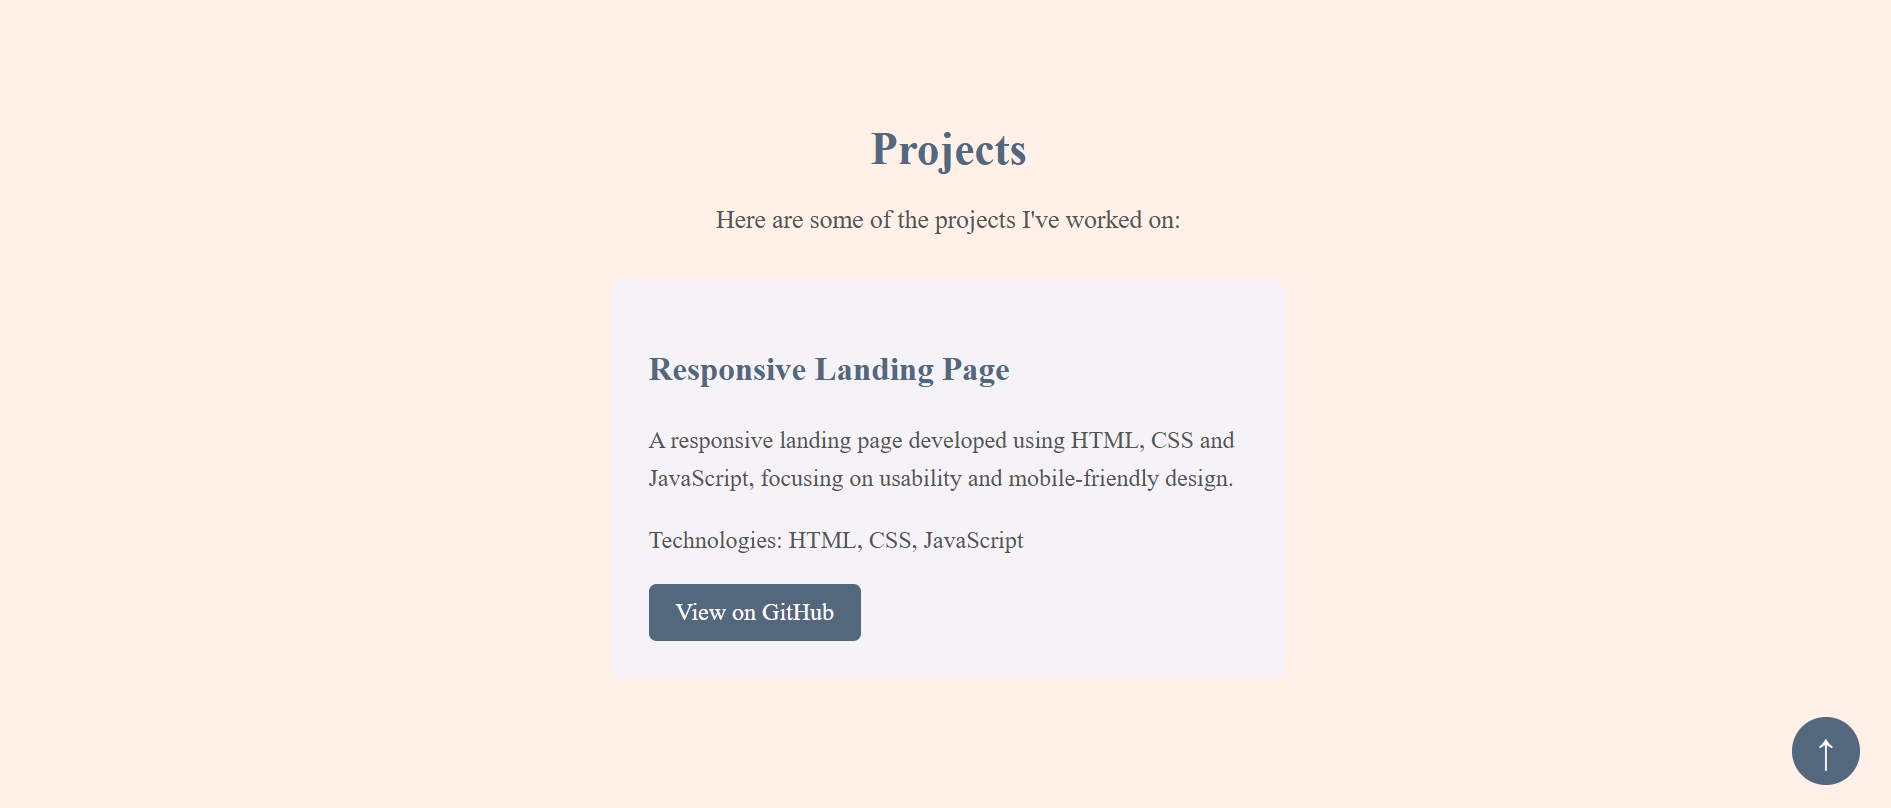
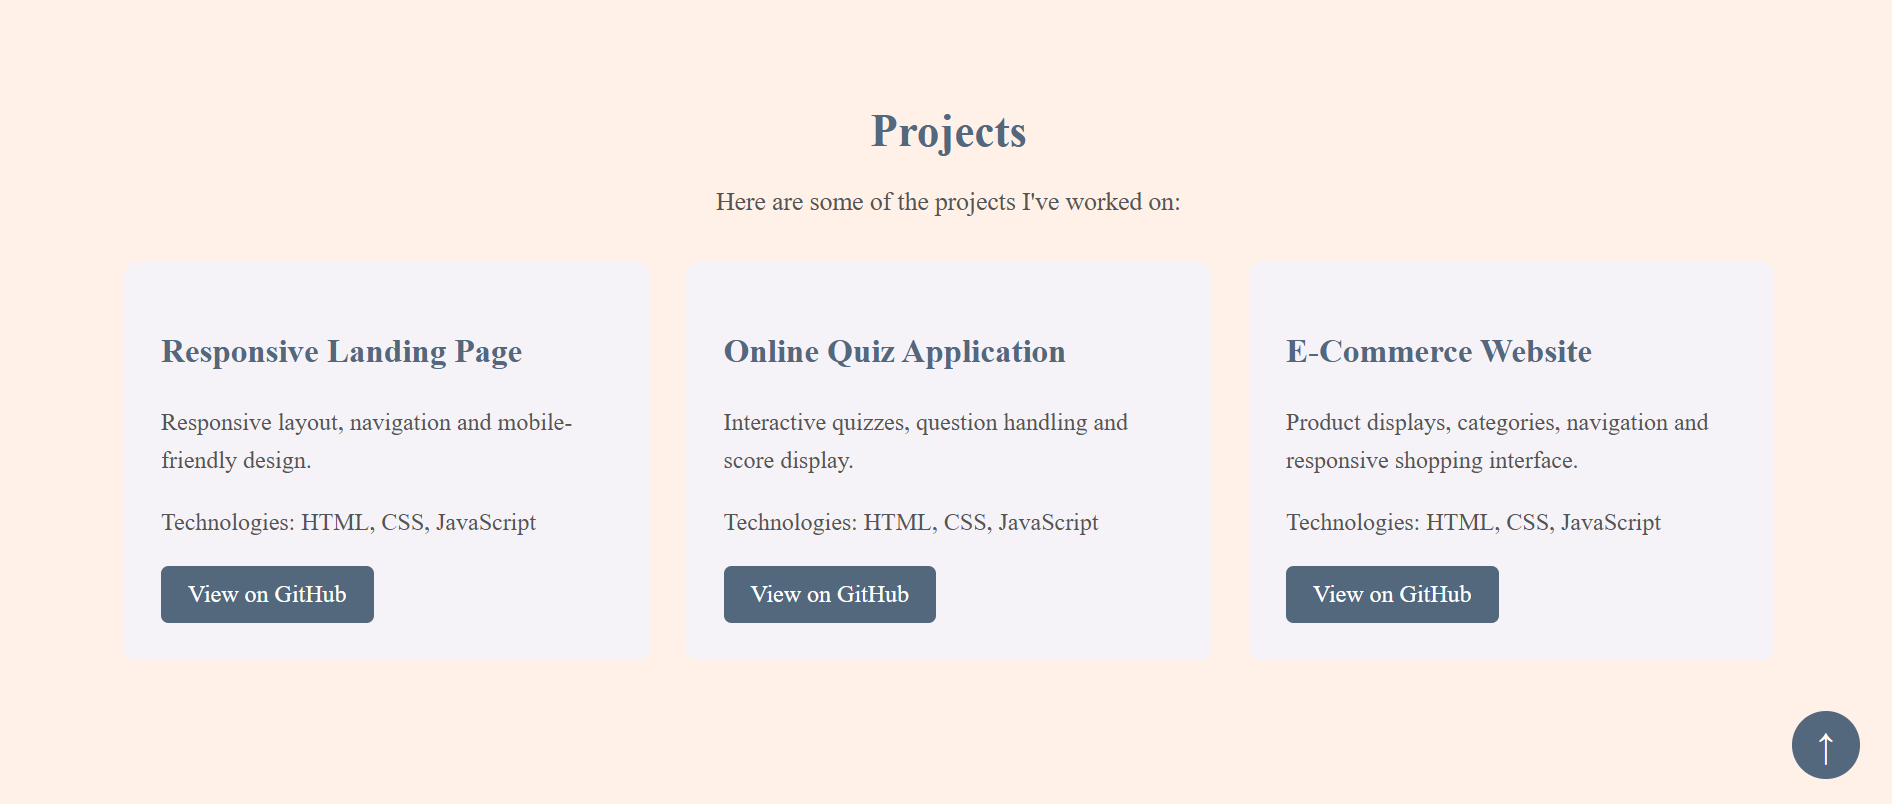
update task 2 and task 5

diff --git a/Task 5 - E-Commerce Website/index.html b/Task 5 - E-Commerce Website/index.html
@@ -52,7 +52,7 @@
                     </p>
                 </div>
                 <div class="about-image">
-                    <img src="images/Arenia Skincare Collection.jpg" alt="Arenia Skincare Collection">
+                    <img src="images/Arenia_Skincare_Collection.jpg" alt="Arenia Skincare Collection">
                 </div>
             </section>
 
@@ -79,7 +79,7 @@
                     </div>
 
                     <div class="category">
-                        <img src="images/Sun Protection.jpg" alt="Sun Protection" class="category-image"> 
+                        <img src="images/Sun_Protection.jpg" alt="Sun Protection" class="category-image"> 
                         <h3>Sun Protection</h3>
                         <p>Daily SPF protection to help protect your skin from UV rays.</p>  
                     </div>
@@ -92,7 +92,7 @@
                 <div class="product-container">
 
                     <div class="product-card" data-id="1" data-name="Gentle Facial Cleanser" data-price="159.99">
-                        <img src="images/Gentle Facial Cleanser.jpg" alt="Gentle Facial Cleanser" class="product-image">
+                        <img src="images/Gentle_Facial_Cleanser.jpg" alt="Gentle Facial Cleanser" class="product-image">
                         <h3>Gentle Facial Cleanser</h3>
                         <p class="product-description">
                             A gentle daily cleanser that leaves skin feeling fresh and comfortable.
@@ -104,7 +104,7 @@
                     </div>
 
                     <div class="product-card" data-id="2" data-name="Hydrating Face Moisturiser" data-price="219.99">
-                        <img src="images/Hydrating Face Moisturiser.jpg" alt="Hydrating Face Moisturiser" class="product-image">
+                        <img src="images/Hydrating_Face_Moisturiser.jpg" alt="Hydrating Face Moisturiser" class="product-image">
                         <h3>Hydrating Face Moisturiser</h3>
                         <p class="product-description">
                             Helps keep skin soft, nourished and hydrated.
@@ -116,7 +116,7 @@
                     </div>
 
                     <div class="product-card" data-id="3" data-name="Vitamin C Brightening Serum" data-price="189.99">
-                        <img src="images/Brightening Serum.jpg" alt="Vitamin C Brightening Serum" class="product-image">
+                        <img src="images/Brightening_Serum.jpg" alt="Vitamin C Brightening Serum" class="product-image">
                         <h3>Vitamin C Brightening Serum</h3>
                         <p class="product-description">
                             A lightweight serum for brighter, radiant-looking skin.
@@ -128,7 +128,7 @@
                     </div>
 
                     <div class="product-card" data-id="4" data-name="ARÉNIA Sun Protection SPF 50" data-price="199.99">
-                        <img src="images/Sun Protection SPF 50.jpg" alt="ARÉNIA Sun Protection SPF 50" class="product-image">
+                        <img src="images/Sun_Protection_SPF 50.jpg" alt="ARÉNIA Sun Protection SPF 50" class="product-image">
                         <h3>ARÉNIA Sun Protection SPF 50</h3>
                         <p class="product-description">
                             Daily sun protection to help shield skin from UV rays.

diff --git a/Task 2 - Personal Portfolio/index.html b/Task 2 - Personal Portfolio/index.html
@@ -59,13 +59,25 @@
         <div class="project-container">
             <div class="project-card">
                 <h3>Responsive Landing Page</h3>
-                <p>
-                    A responsive landing page developed using HTML,
-                    CSS and JavaScript, focusing on usability and
-                    mobile-friendly design.
-                </p>
+                <p>Responsive layout, navigation and mobile-friendly design.</p>
                 <p>Technologies: HTML, CSS, JavaScript</p>
-                <a href="https://github.com/Reneilwe001/responsive-landing-page" target="_blank" rel="noopener noreferrer">
+                <a href="https://github.com/Reneilwe001/Web_Development_Internship/tree/main/Task%201%20-%20Responsive%20Landing%20Page" target="_blank" rel="noopener noreferrer">
+                    View on GitHub
+                </a>
+            </div>
+            <div class="project-card">
+                <h3>Online Quiz Application</h3>
+                <p>Interactive quizzes, question handling and score display.</p>
+                <p>Technologies: HTML, CSS, JavaScript</p>
+                <a href="https://github.com/Reneilwe001/Web_Development_Internship/tree/main/Task%204%20-%20Online%20Quiz%20Application" target="_blank" rel="noopener noreferrer">
+                    View on GitHub
+                </a>
+            </div>
+            <div class="project-card">
+                <h3>E-Commerce Website</h3>
+                <p>Product displays, categories, navigation and responsive shopping interface.</p>
+                <p>Technologies: HTML, CSS, JavaScript</p>
+                <a href="https://github.com/Reneilwe001/Web_Development_Internship/tree/main/Task%205%20-%20E-Commerce%20Website" target="_blank" rel="noopener noreferrer">
                     View on GitHub
                 </a>
             </div>

diff --git a/Task 2 - Personal Portfolio/style.css b/Task 2 - Personal Portfolio/style.css
@@ -1,3 +1,7 @@
+* {
+    box-sizing: border-box;
+}
+
 body {
     background-color: #FFF1E8;
     margin: 0;
@@ -145,10 +149,11 @@ nav ul li a:hover {
 }
 
 .project-container {
-    display: flex;
-    justify-content: center;
-    flex-wrap: wrap;
+    display: grid;
+    grid-template-columns: repeat(auto-fit, minmax(260px, 1fr));
     gap: 25px;
+    max-width: 1100px;
+    margin: 0 auto;
 }
 
 .project-card {
@@ -306,12 +311,15 @@ nav ul li a:hover {
     }
 
     .project-container {
-        gap: 20px;
+        grid-template-columns: 1fr;
+        justify-content: center;
+        justify-items: center;
+        width: 100%;
     }
 
     .project-card {
         width: 100%;
-        box-sizing: border-box;
+        min-width: 0;
     }
 
     #contact {
